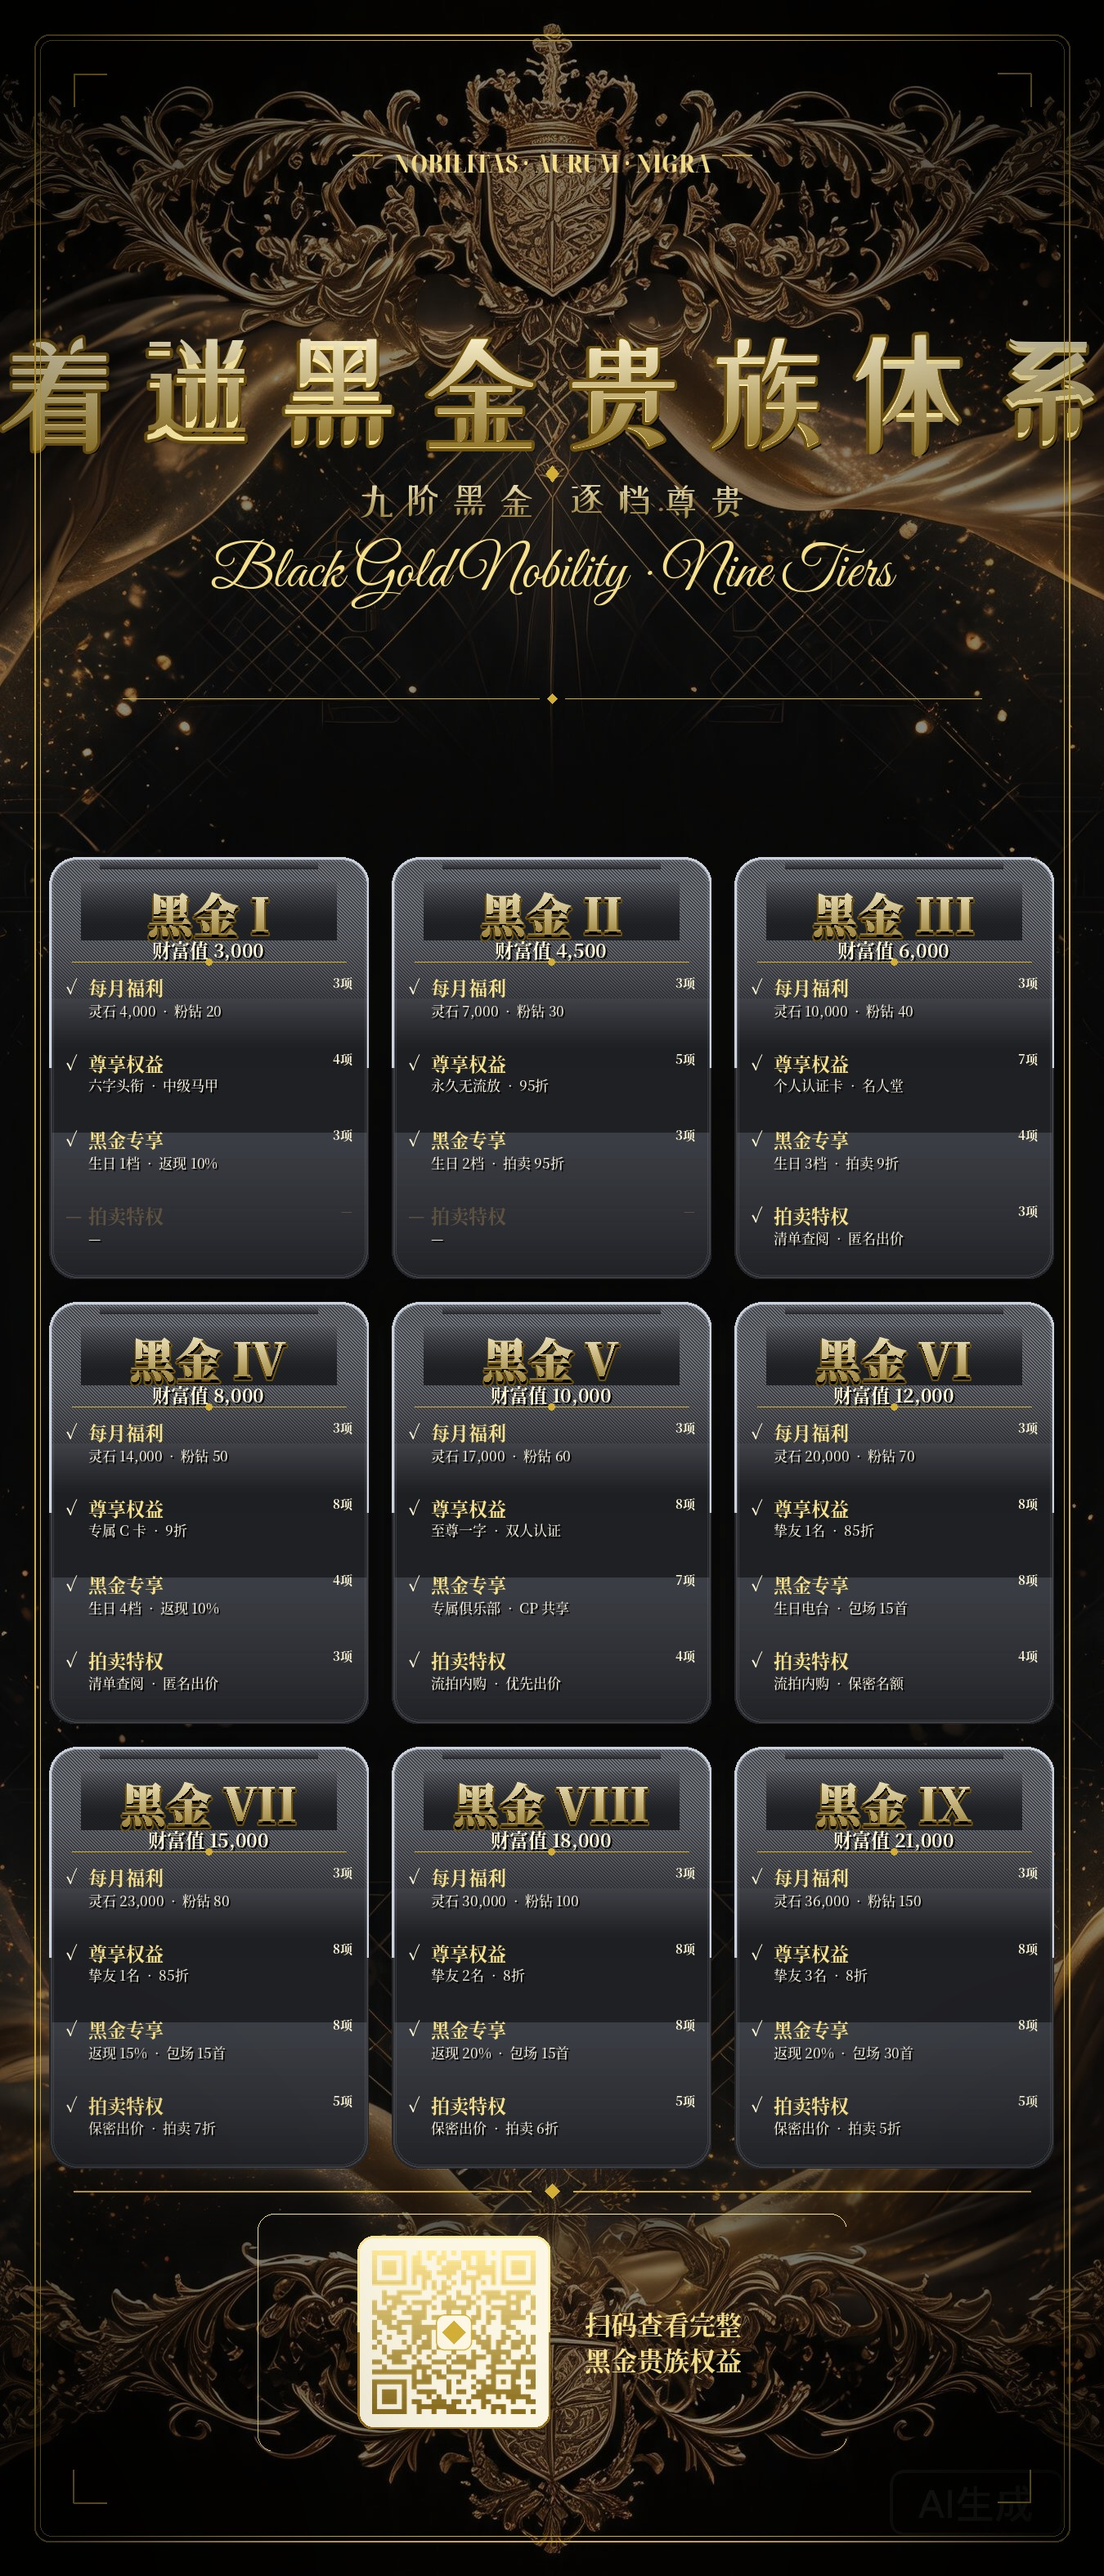
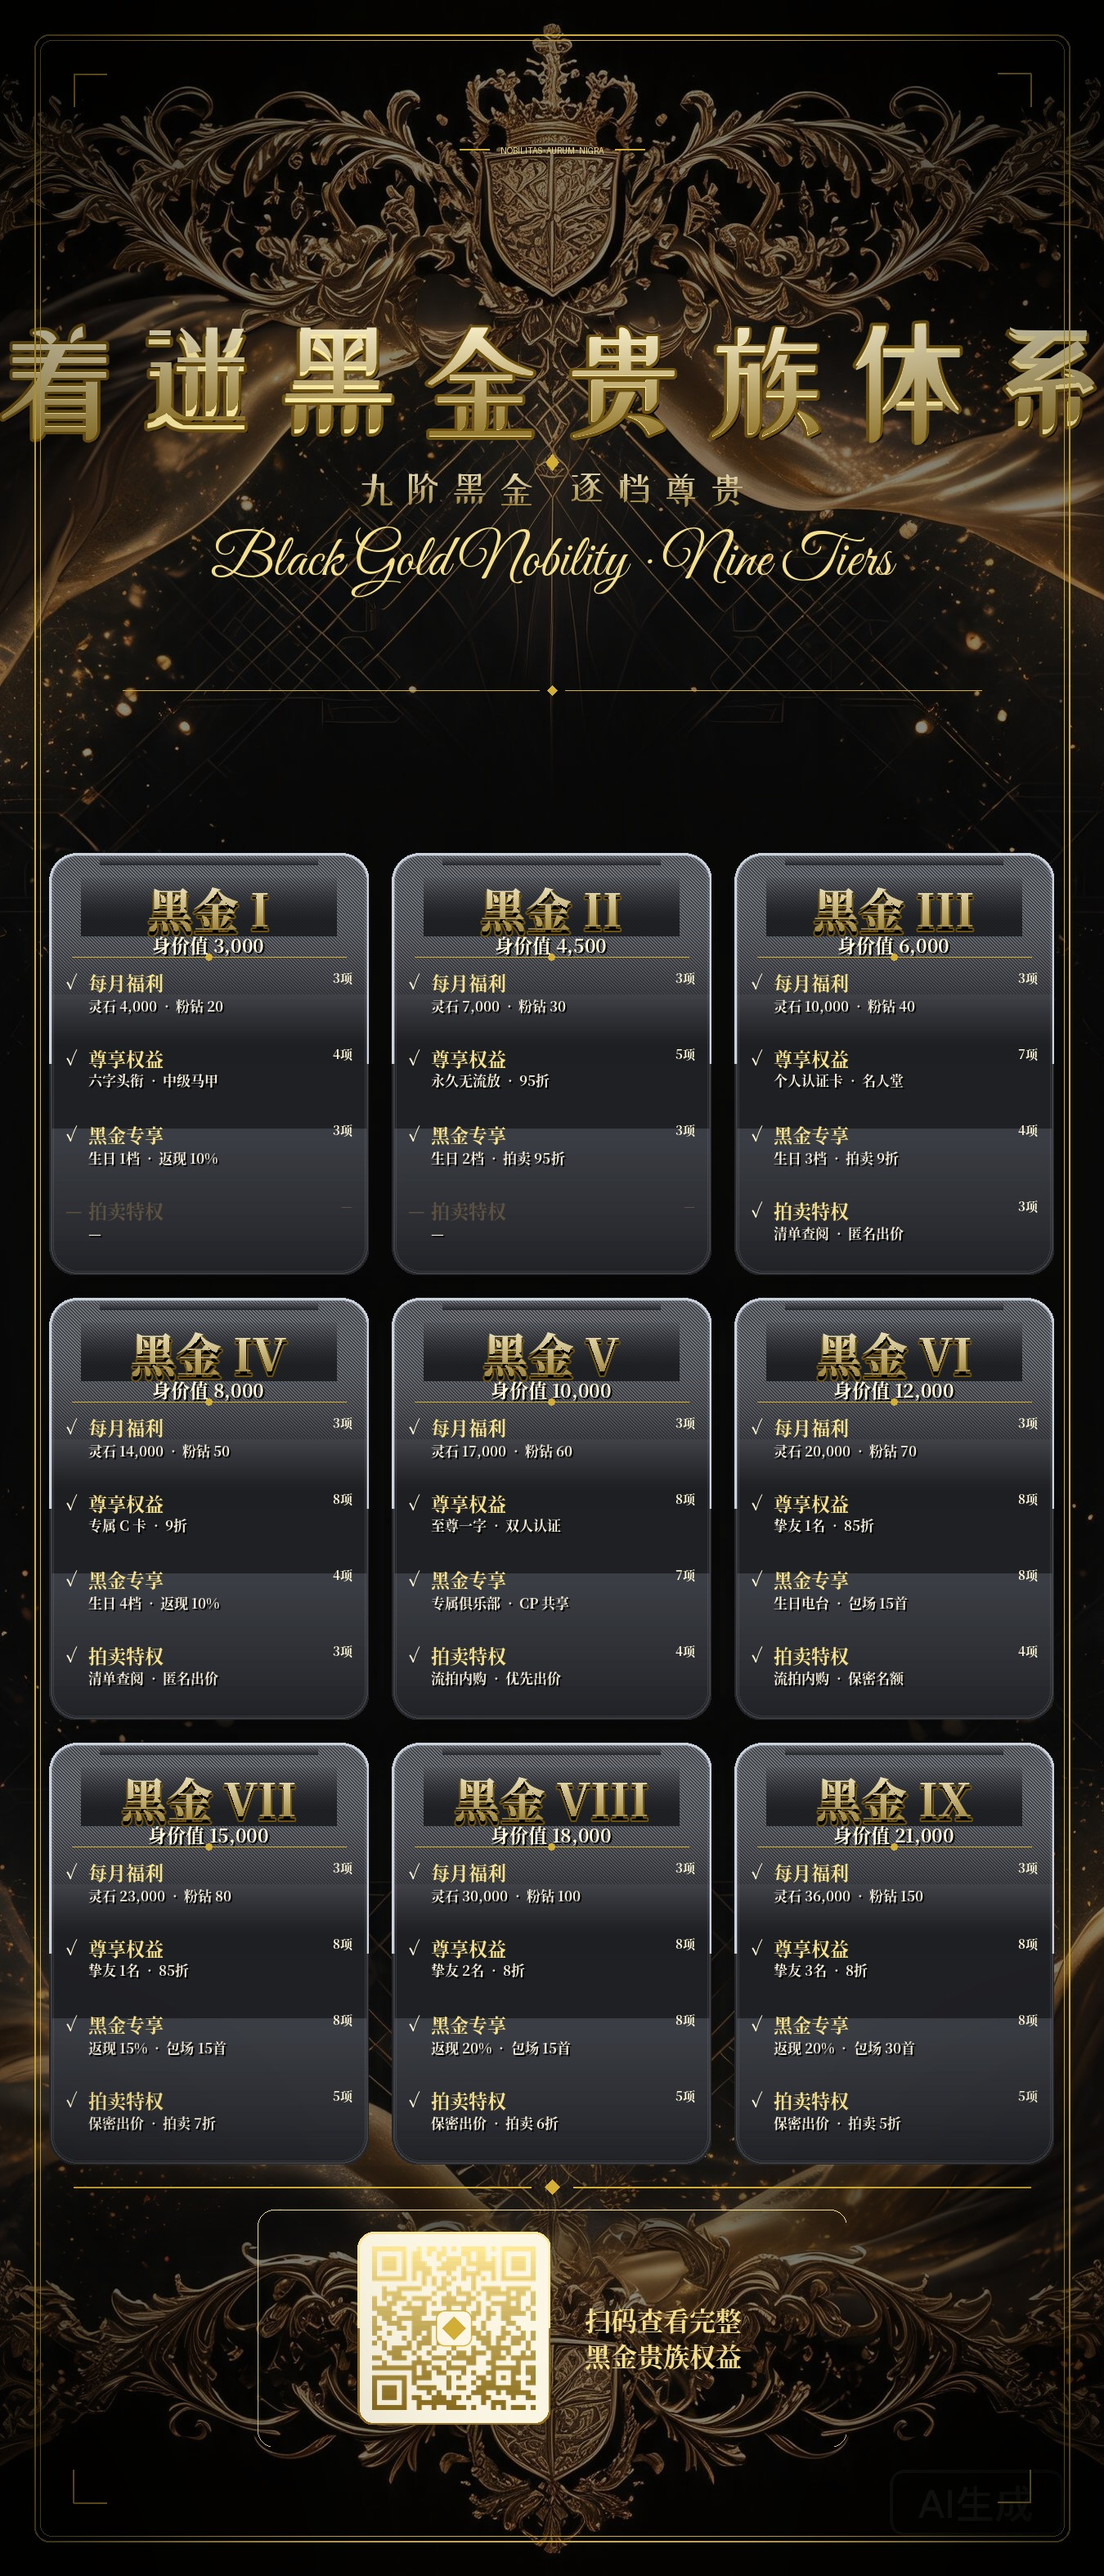
feat: 将财富统一改为身价（表头+海报）

diff --git a/index.html b/index.html
@@ -229,7 +229,7 @@ const tbl=document.getElementById('cmpTable');
 // 表头
 let html='<thead><tr><th class="label">权益项</th>';
 TIERS.forEach((t,i)=>{
-  html+=`<th class="tier lv-${i+1}"><div class="rom">黑金 ${t.id}</div><div class="w"><b>${fmt(t.wealth)}</b> 财富</div></th>`;
+  html+=`<th class="tier lv-${i+1}"><div class="rom">黑金 ${t.id}</div><div class="w"><b>${fmt(t.wealth)}</b> 身价</div></th>`;
 });
 html+='</tr></thead><tbody>';
 

diff --git a/make_poster.py b/make_poster.py
@@ -373,8 +373,8 @@ for i,t in enumerate(TIERS):
     draw.text((cx,y+30),tier_title,font=ttf,fill=(0,0,0,0),anchor='ma',stroke_width=2,stroke_fill=(110,82,18,220))
     gold_text(cx,y+28,tier_title,ttf,'ma')
     _,gnh=tsize(tier_title,ttf)
-    # 财富值（金色大字）
-    txt(cx,y+28+gnh+8,f'财富值 {t["wealth"]:,}',CJK(23,'Bold'),GOLD_HI,'ma',shadow=True)
+    # 身价值（金色大字）
+    txt(cx,y+28+gnh+8,f'身价值 {t["wealth"]:,}',CJK(23,'Bold'),GOLD_HI,'ma',shadow=True)
     # 分隔线
     divy=y+28+gnh+8+32
     draw.line([(x+28,divy),(x+CARD_W-28,divy)],fill=(212,175,55,140),width=1)
